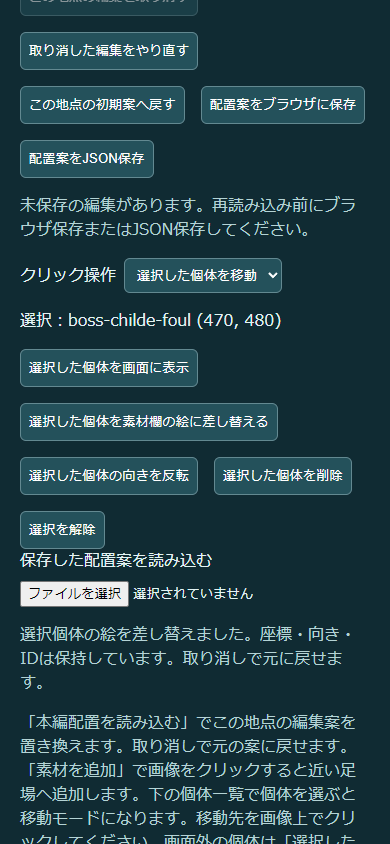
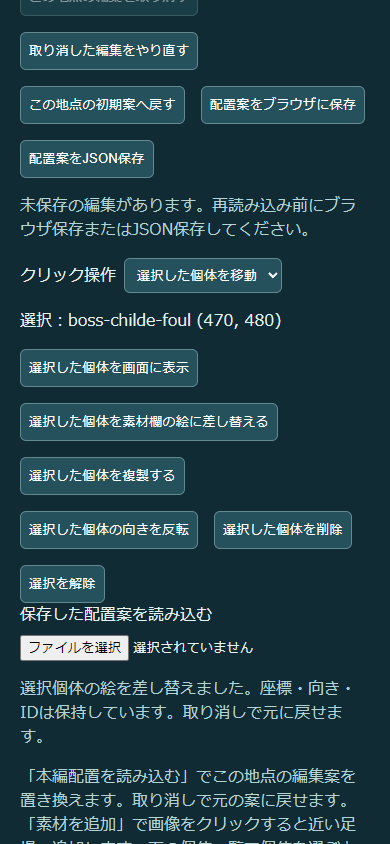
Support repeated placement copies with preserved facing and history

Changed region(s): [[0.0308, 0.5237, 0.9231, 1.0]]

diff --git a/map-art.html b/map-art.html
@@ -5,9 +5,9 @@
 <div class="controls"><label>地点 <select id="node"></select></label><label>軽量設定 <select id="profile"><option value="legacy">標準</option><option value="h48c32">中間・32色</option><option value="h32c16" selected>最軽量・16色</option></select></label><label>カメラ <input id="camera" type="range" min="0" value="0" step="1"><output id="cameraValue">0</output></label></div>
 <p id="context" class="note"></p><div class="controls"><label>追加する素材 <select id="species"><option value="armored-crab">重甲ヤドカニ（全身参照v2）</option><option value="nobushi">野伏・陣刀番（待機候補）</option><option value="dendro-fungus">浮遊草キノコン（待機候補）</option><option value="ruin-guard">遺跡守衛（待機候補）</option><option value="hilichurl" selected>ヒルチャール</option><option value="hydro-slime">水スライム（旧候補）</option><option value="pyro-slime">炎スライム（旧候補）</option><option value="hydro-slime-reference">水スライム（参照付き新候補）</option><option value="pyro-slime-reference">炎スライム（参照付き新候補）</option></select></label><button id="loadLive">この地点の本編配置を読み込む</button><button id="undo">この地点の編集を取り消す</button><button id="redo" disabled>取り消した編集をやり直す</button><button id="reset">この地点の初期案へ戻す</button><button id="saveBrowser">配置案をブラウザに保存</button><button id="export">配置案をJSON保存</button></div>
 <p id="browserStatus" class="note" role="status">ブラウザ保存は手動です。全地点の案をこのブラウザ・接続先に保存します。</p>
-<div class="controls"><label>クリック操作 <select id="editMode"><option value="add">素材を追加</option><option value="move">選択した個体を移動</option></select></label><span id="selectionStatus">選択なし</span><button id="focusSelected" disabled>選択した個体を画面に表示</button><button id="replaceSelected" disabled>選択した個体を素材欄の絵に差し替える</button><button id="flipSelected" disabled>選択した個体の向きを反転</button><button id="deleteSelected" disabled>選択した個体を削除</button><button id="clearSelection" disabled>選択を解除</button></div>
+<div class="controls"><label>クリック操作 <select id="editMode"><option value="add">素材を追加</option><option value="move">選択した個体を移動</option><option value="copy">選択した個体を複製</option></select></label><span id="selectionStatus">選択なし</span><button id="focusSelected" disabled>選択した個体を画面に表示</button><button id="replaceSelected" disabled>選択した個体を素材欄の絵に差し替える</button><button id="copySelected" disabled>選択した個体を複製する</button><button id="flipSelected" disabled>選択した個体の向きを反転</button><button id="deleteSelected" disabled>選択した個体を削除</button><button id="clearSelection" disabled>選択を解除</button></div>
 <label>保存した配置案を読み込む <input id="import" type="file" accept=".json,application/json"></label><p id="fileStatus" role="status" class="note">読み込むと全地点の編集案を置き換えます。必要な案は先にJSON保存してください。</p>
-<p class="note">「本編配置を読み込む」でこの地点の編集案を置き換えます。取り消しで元の案に戻せます。「素材を追加」で画像をクリックすると近い足場へ追加します。下の個体一覧で個体を選ぶと移動モードになります。移動先を画像上でクリックしてください。画面外の個体は「選択した個体を画面に表示」でカメラを合わせられます。配置座標は変わりません。素材欄で絵を選び「差し替える」を押すと、選択個体の座標・向き・IDを保って絵を変更します。素材ごとの大きさと浮き高さは変わります。移動・差し替え・反転・削除も取り消せます。「やり直す」で取り消した編集を復元します。取り消した後に新しく編集すると、その地点のやり直し履歴は消えます。別地点へ移っても案はこの画面内で保持します。再読み込みでは最後のブラウザ保存を復元します。未保存の編集と取り消し・やり直し履歴は失われます。別のブラウザや接続先へ移す場合はJSON保存してください。</p>
+<p class="note">「本編配置を読み込む」でこの地点の編集案を置き換えます。取り消しで元の案に戻せます。「素材を追加」で画像をクリックすると近い足場へ追加します。下の個体一覧で個体を選ぶと移動モードになります。移動先を画像上でクリックしてください。画面外の個体は「選択した個体を画面に表示」でカメラを合わせられます。配置座標は変わりません。素材欄で絵を選び「差し替える」を押すと、選択個体の座標・向き・IDを保って絵を変更します。素材ごとの大きさと浮き高さは変わります。「複製する」を押して画像上の置きたい場所をクリックすると、同じ素材・向きの個体を追加します。複製後もクリックを続けて追加できます。終了するにはクリック操作を変更してください。移動・複製・差し替え・反転・削除も取り消せます。「やり直す」で取り消した編集を復元します。取り消した後に新しく編集すると、その地点のやり直し履歴は消えます。別地点へ移っても案はこの画面内で保持します。再読み込みでは最後のブラウザ保存を復元します。未保存の編集と取り消し・やり直し履歴は失われます。別のブラウザや接続先へ移す場合はJSON保存してください。</p>
 <p class="note">ボスは素材比較画面と同じ仮の大きさです。浮遊素材は足場の基準点から仮の高さだけ離して表示します（一覧に「浮き」を表示）。水・炎など地面側の表現を含む素材は下端を足場へ合わせます。高さは見た目比較用で、本編の飛行高度・当たり判定ではありません。</p>
 <main><figure><figcaption>元PNG</figcaption><canvas id="png" width="960" height="540"></canvas></figure><figure><figcaption>軽量矩形版</figcaption><canvas id="rect" width="960" height="540"></canvas></figure></main>
 <div id="placements"></div><section aria-label="本編配置との差分"><h2>本編配置との差分</h2><button id="compareLive">本編との差分を確認・更新</button><p id="diffSummary" role="status"></p><ul id="diffDetails"></ul><p class="note">同じ個体IDを照合します。比較基準は取得時点の配置です。本編への反映や自動保存は行いません。</p></section><p id="status" role="status">読み込み中</p><script type="module" src="map-art.js"></script></html>

diff --git a/map-art.js b/map-art.js
@@ -67,7 +67,7 @@ try{
    }
   }
   $('placements').replaceChildren();for(const e of items){const label=document.createElement('button');label.type='button';label.dataset.id=e.id;label.setAttribute('aria-pressed',String(e.id===selected));label.onclick=()=>{selected=e.id;$('editMode').value='move';render()};label.textContent=`${e.species}：(${e.x}, ${e.y})${assets[e.species].hover?` ／ 浮き ${assets[e.species].hover}px`:``}`;$('placements').append(label)}
-  const chosen=items.find(e=>e.id===selected);$('selectionStatus').textContent=chosen?`選択：${chosen.species} (${chosen.x}, ${chosen.y})`:'選択なし';for(const id of ['focusSelected','replaceSelected','flipSelected','deleteSelected','clearSelection'])$(id).disabled=!chosen;
+  const chosen=items.find(e=>e.id===selected);$('selectionStatus').textContent=chosen?`選択：${chosen.species} (${chosen.x}, ${chosen.y})`:'選択なし';for(const id of ['focusSelected','replaceSelected','copySelected','flipSelected','deleteSelected','clearSelection'])$(id).disabled=!chosen;
   const runs=items.reduce((sum,e)=>sum+assets[e.species].profiles[profile].runs.length,0);$('status').textContent=`配置${items.length}体 ／ 矩形${runs.toLocaleString()}個（配置した全体の合計・FPSではありません） ／ ${valid?'全個体の配置基準点が足場上':'足場外の配置あり'}`;$('undo').disabled=!(histories[n.id]?.length);$('redo').disabled=!(redos[n.id]?.length);
   const diff=baselines[n.id]?comparePlacements(baselines[n.id],items):null;
   $('diffSummary').textContent=diff?`取得した本編配置との差分：追加${diff.added.length}・削除${diff.removed.length}・変更${diff.changed.length}・同じ${diff.unchanged}体`:'この地点の本編配置は未取得です。比較しても編集案は変わりません。';
@@ -105,14 +105,18 @@ try{
   remember(node().id);e.species=species;render();
   $('fileStatus').textContent='選択個体の絵を差し替えました。座標・向き・IDは保持しています。取り消しで元に戻せます。';
  };
+ $('copySelected').onclick=()=>{if(!placements().some(e=>e.id===selected))return;$('editMode').value='copy';render();$('fileStatus').textContent='画像上の複製先をクリックしてください。同じ素材・向きで追加します。';};
  $('flipSelected').onclick=()=>{const e=placements().find(e=>e.id===selected);if(!e)return;remember(node().id);e.flip=!e.flip;render()};
  $('deleteSelected').onclick=()=>{if(!selected)return;remember(node().id);drafts.nodes[node().id]=placements().filter(e=>e.id!==selected);selected=null;render()};
 for(const id of ['camera','profile'])$(id).oninput=render;
  for(const mode of ['png','rect'])$(mode).onclick=event=>{const box=$(mode).getBoundingClientRect(),n=node(),x=Math.round((event.clientX-box.left)*960/box.width+Number($('camera').value)),y=(event.clientY-box.top)*540/box.height;const supports=n.platforms.filter(p=>x>=p.x&&x<=p.x+p.w&&x<=n.width).sort((a,b)=>Math.abs(a.y-y)-Math.abs(b.y-y));if(!supports.length)return;
   if($('editMode').value==='move'){const e=placements().find(e=>e.id===selected);if(!e){$('fileStatus').textContent='下の個体一覧から移動する個体を選んでください。';return}if(e.x!==x||e.y!==supports[0].y){remember(n.id);e.x=x;e.y=supports[0].y}render();return}
   if(placements().length>=MAX_NODE_PLACEMENTS||Object.values(drafts.nodes).reduce((s,x)=>s+x.length,0)>=MAX_TOTAL_PLACEMENTS){$('fileStatus').textContent='配置数の上限です。別の案として保存してから編集してください。';return}
-  if(!assets[$('species').value]){$('fileStatus').textContent='追加する素材がありません。素材の絞り込みを解除してください。';return}
-  let id;do{id=`added-${++serial}`}while(placements().some(e=>e.id===id));const item={id,species:$('species').value,x,y:supports[0].y,flip:false};remember(n.id);placements().push(item);render()};
+  const copying=$('editMode').value==='copy',source=copying?placements().find(e=>e.id===selected):null;
+  if(copying&&!source){$('fileStatus').textContent='下の個体一覧から複製する個体を選んでください。';return}
+  const species=copying?source.species:$('species').value;
+  if(!assets[species]){$('fileStatus').textContent='追加する素材がありません。素材の絞り込みを解除してください。';return}
+  let id;do{id=`added-${++serial}`}while(placements().some(e=>e.id===id));const item={id,species,x,y:supports[0].y,flip:copying?source.flip:false};remember(n.id);placements().push(item);if(copying)selected=id;render();if(copying)$('fileStatus').textContent='同じ素材・向きの個体を複製しました。続けてクリックすると追加できます。';};
  $('undo').onclick=()=>restoreHistory(histories,redos);
  $('redo').onclick=()=>restoreHistory(redos,histories);
  $('reset').onclick=()=>{

diff --git a/CHAT_HANDOFF.md b/CHAT_HANDOFF.md
@@ -381,3 +381,6 @@ map-art.html追加: 本編61仮地点の足場/背景を選択し、元PNGと軽
 
 
 2026-11-17: 輝ける溶岩の龍像の溶焔形態待機候補を通常形態と別素材で追加。HoYoWiki溶焔画像とHoYoLAB形態比較の右側を直接確認して内蔵ツールで参照付き生成。200/150/100px=7146/4632/2177矩形、最軽量69.54%減（FPSではない）。42候補・37ボス分の美術候補。3設定3倍率左右/390px、配置3設定/書出読戻/モバイル検査通過。PNG対最軽量を目視、頭の縦長輪郭/両腕/溶岩柱/核は残る。100pxでは目・苔色が弱く溶岩帯が粗くなる。参照より胴細め・冠高め、背面/3D未確認。変身・技・動作は未実装。比較の森林背景は仮素材で原作の居場所ではない。根拠 evidence/lava-dragon-molten-reference-audit.json。
+
+
+2026-11-17: 配置プレビューに個体の複製を追加。個体を選び「複製する」、画像上の足場をクリックすると同じ素材・向きを新規IDで追加。連続配置可能、元個体は保持。未選択/地点変更後は追加せず、128体/地点・1024体/全地点の上限で案とredoを保持。新規テストで複製/連続/undo redo/ブラウザ保存復元/上限/読込済みadded-NとのID衝突回避/390px検査通過、モバイル画像目視。既存素材差替えテストも通過。本編反映・技変更なし。根拠 evidence/map-copy-test.json、evidence/map-copy-mobile.png。
